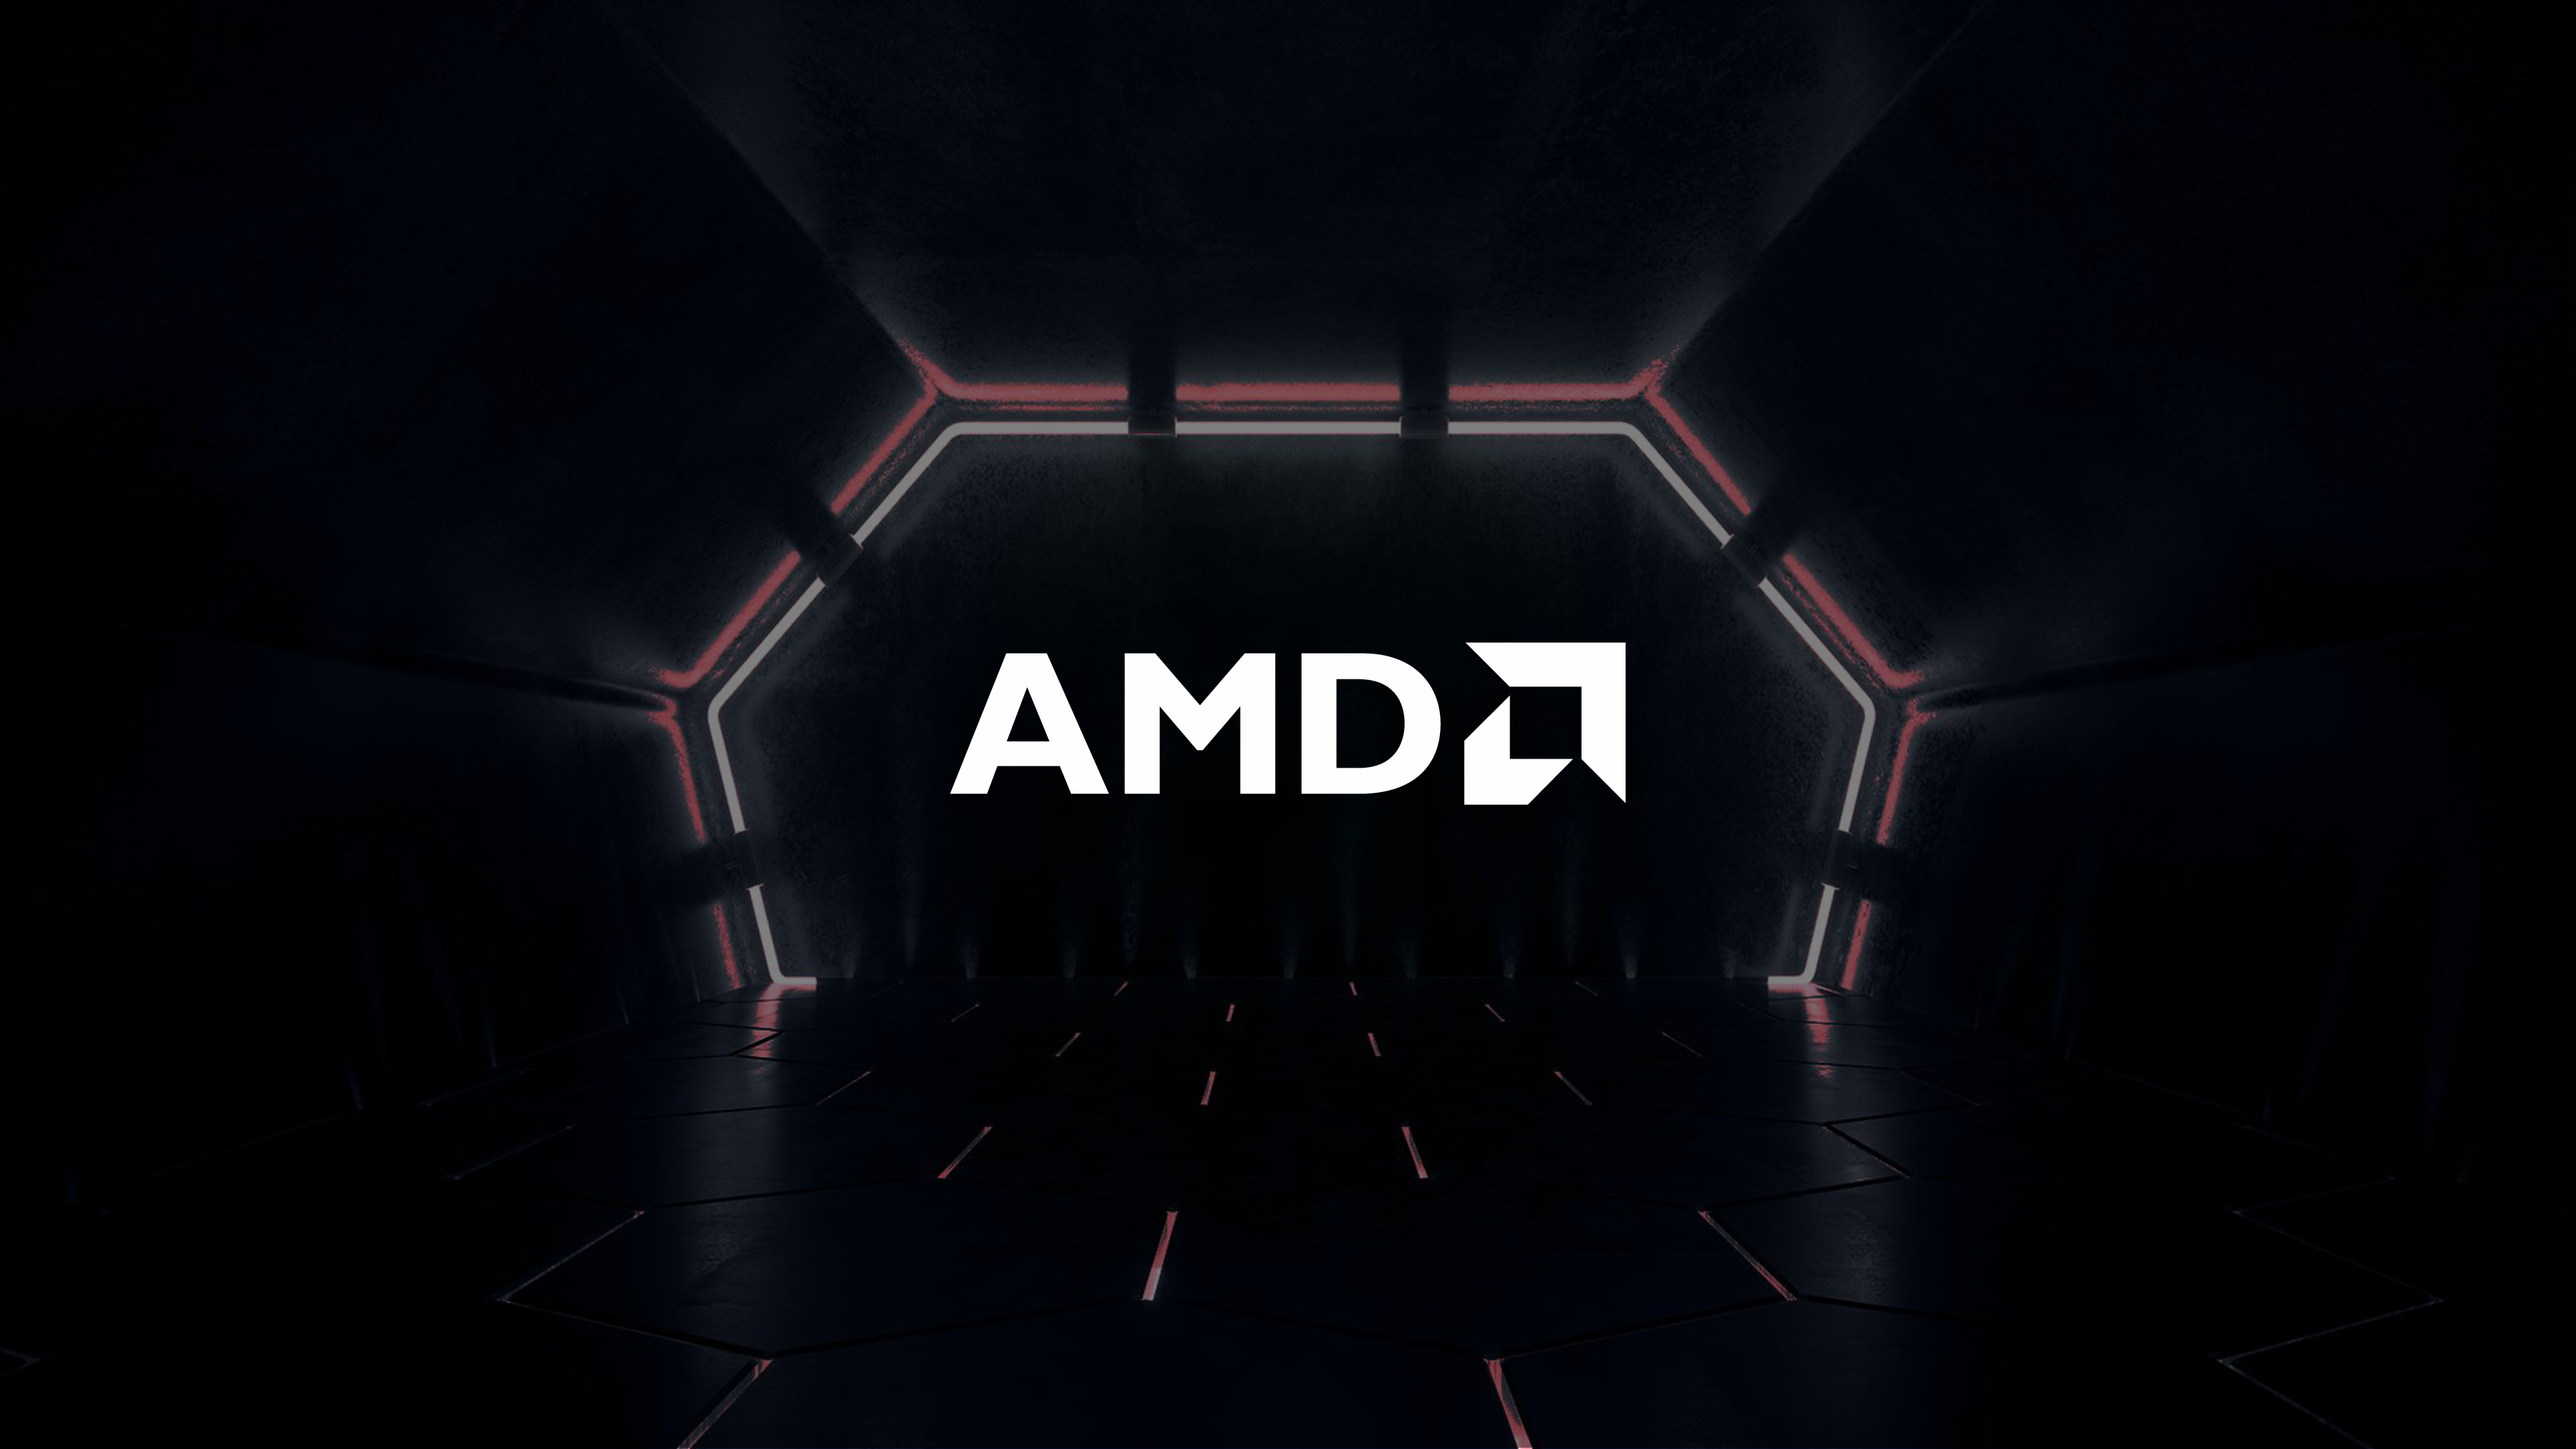
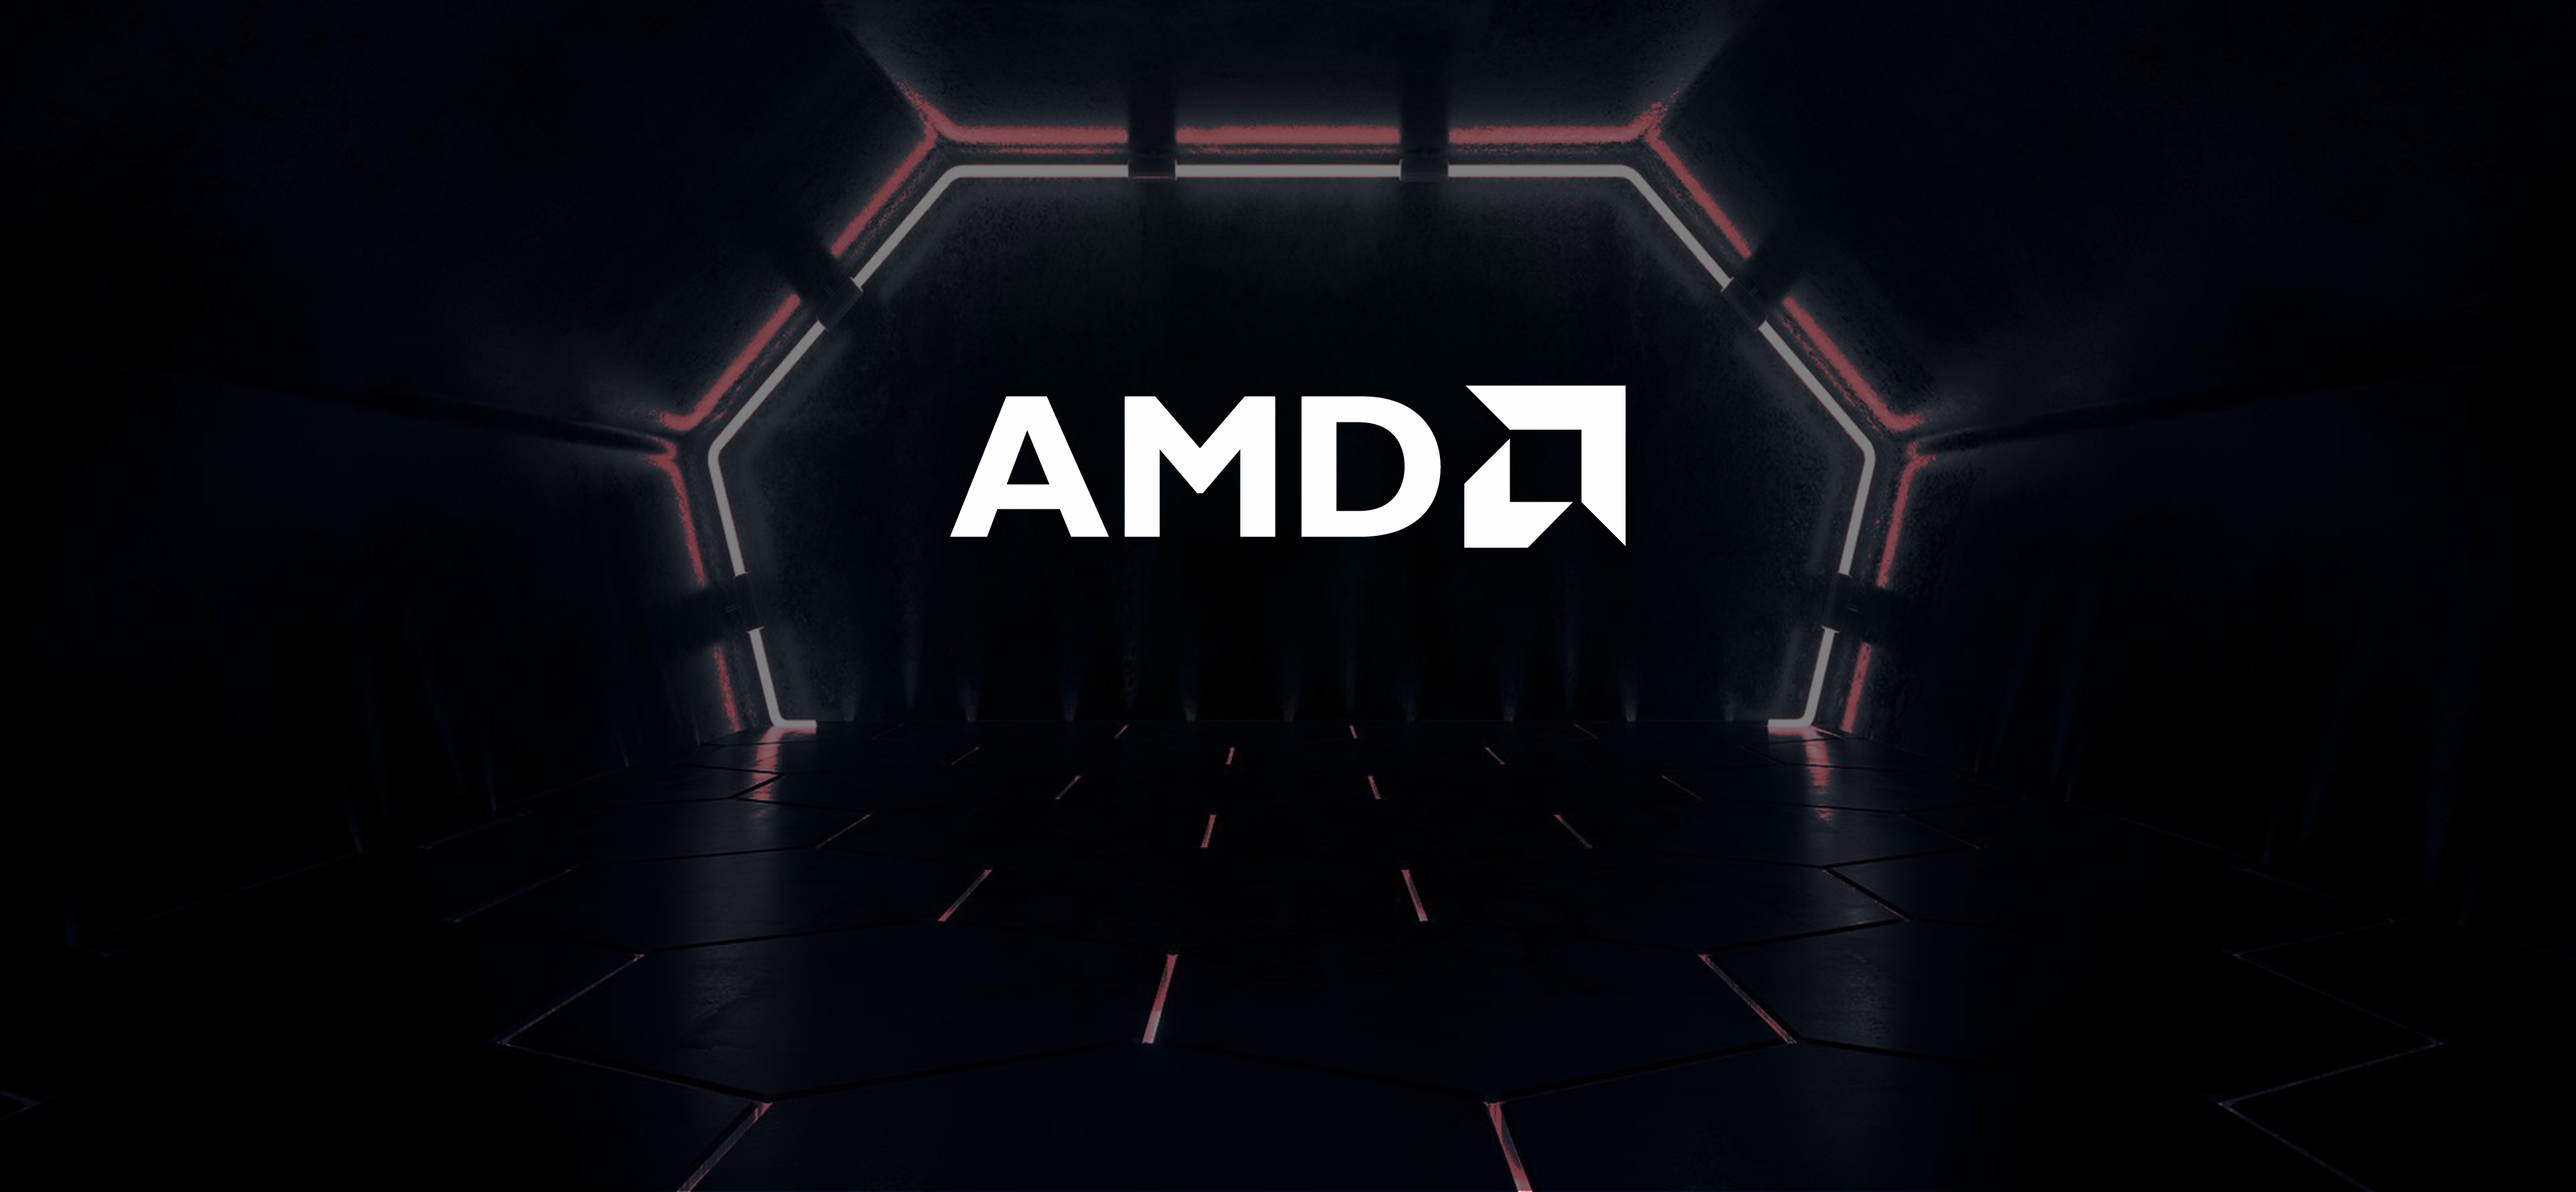
Update Hotel - AMD

diff --git a/_css/funcao.css b/_css/funcao.css
@@ -1,60 +1,196 @@
+body{
+    background-color: #353535;
+}
+
 header{
     background-color: black;
+    height: 300px;
+    position: relative;
+    margin:  0;
 }
 
 .test{
     position: absolute;
     background-color: transparent;
-    top: 170px;
-    left: 40%;
+    top: 25px;
+    left: 39.5%;
     font-family: Arial, Helvetica, sans-serif;
     font-size: 60px;
     color: #fff;
 }
 
-div.dis{
-    display: block;
+.row{
+    position: relative;
+    width: 100%;
+    display: flex;
+    justify-content: space-between;
 }
 
-.scrpiti{
+.row .scrpiti{
     background-color: #fff;
-    width: 875px;
+    width: 50%;
     height: 350px;
     font-family: 'Gill Sans', 'Gill Sans MT', Calibri, 'Trebuchet MS', sans-serif;
     position: relative;
+    display: inline-block;
     color: #000;
-    line-height: 50px;
-    padding-left: 200px;
+    line-height: 36px;
     padding-top: 25px;
-    padding-right: 0px;
     bottom: 280px;
-    left: 500px;
-    text-align: center;
+    border-top: 3px solid #000;
     border-bottom: 3px solid #000;
 }
 
-.scrpiti h2{
+.qntdQ{
+    display: inline-block;
+    position: relative;
+    left: 65px;
+    top: 25px;
+}
+
+.scrpiti .qntdQ h2{
+    display: flex;
+    font-family: Verdana, Geneva, Tahoma, sans-serif;
+    color: #000;
+    left: 50px;
+}
+
+.scrpiti .qntdQ h3{
+    font-family: Verdana, Geneva, Tahoma, sans-serif;
+    color: blue;
+    text-align: center;
+}
+
+.qntdR{
+    display: inline-block;
+    position: relative;
+    left: 115px;
+    top: 25px;
+}
+
+.scrpiti .qntdR h2{
+    display: flex;
     font-family: Verdana, Geneva, Tahoma, sans-serif;
     color: #000;
 }
 
-.scrpiti h3{
+.scrpiti .qntdR h3{
     font-family: Verdana, Geneva, Tahoma, sans-serif;
     color: blue;
+    text-align: center;
+}
+
+button
+{	
+	display: flex;
+	position: relative;
+	align-items: center;
+	justify-content: center;
+	text-align: center;
+  	background-color: #013cff;
+    border: 3px solid #353535;
+  	color: #FFFFFF;
+  	font-size: 28px;
+  	padding: 20px;
+  	width: 320px;
+  	transition: all 0.5s;
+  	cursor: pointer;
+	left: 25%;
+    top: 75px;
+	border-radius: 8px;
+	transform: scale(1);
+}
+
+button:hover
+{
+	margin-right: 20px;	
+    background-color: #353535;
+    border: 3px solid black;
+}
+
+.button span {
+  	cursor: pointer;
+  	display: inline-block;
+  	position: relative;
+  	transition: 0.5s;	
+}
+
+.button span:after {
+  content: '\21a0';
+  position: absolute;
+  opacity: 0;
+  top: 0;
+  right: -30px;
+  transition: 0.5s;
+}
+
+.button:hover span {
+  	padding-right: 50px;
+  	margin-right: 20px;
+}
+
+.button:hover span:after {
+  	opacity: 1;
+  	right: 0;
+}
+
+.row .colu{
+    border-radius: 100px;
+	display: flex;
+    position: relative;
+    width: 25%;
+    height: 100%;
+    object-fit: cover;
+    bottom: 280px;
+}
+
+.row .colu2{
+    border-radius: 100px;
+	display: flex;
+    position: relative;
+    width: 25%;
+    height: 100%;
+    object-fit: cover;
+    bottom: 280px;
 }
 
 .img-hotel{
     position: absolute;
-    height: 400px;
+    height: 496px;
     min-width: auto;
-    top: 510px;
+    border-left: 3px solid #000;
+    border-bottom: 3px solid #000;
+    border-top: 3px solid #000;
+}
+
+.img-hotel2{
+    position: absolute;
+    height: 496px;
+    left: 0px;
+    min-width: auto;
+    border-right: 3px solid #000;
+    border-bottom: 3px solid #000;
+    border-top: 3px solid #000;
 }
 
 .frase{
+    background-color: #151515;
     position: relative;
-    color: #000;
+    color: #fff;
     font-family: Arial, Helvetica, sans-serif;
+    width: 670px;
+    height: 100px;
+    left: 24.8%;
+    text-align: center;
     font-size: 30px;
-    bottom: 275px;
-  
+    bottom: 294px;
 }
+
+.frase h3{
+    position: relative;
+    padding-top: 7px;
+    padding-bottom: 6.5px;
+    border-bottom: 3px solid #000;
+    border-top: 3px solid #000;
+}
+

diff --git a/Hotel-AMD.html b/Hotel-AMD.html
@@ -1,0 +1,50 @@
+<!DOCTYPE html>
+<html>
+<head>
+    <meta charset='utf-8'>
+    <title>função</title>
+    <meta name='viewport' content='width=device-width, initial-scale=1'>
+    <link rel='stylesheet' type='text/css' media='screen' href='main.css'>
+
+    <link rel='stylesheet' href="_css/funcao.css">
+</head>
+<body>
+
+    <header>
+        <img src="_imagens/AMD-tunel-processor.png" style="width: 100%; height: 600px;">
+            <div class="test">
+                <h2>HOTEL</h2>
+            </div>
+            <div class="row">
+                <div class="colu2">
+                    <img src="_imagens/Hotel-AMD/95112669.jpg" class="img-hotel2">
+                </div>
+                <div class="scrpiti">
+                    <div class="qntdQ">
+                        <h2>Quartos no hotel</h2>
+                        <h3 id="quartos"></h3>
+                    </div>
+                    <div class="qntdR">
+                        <h2>Reservas do hotel</h2>
+                        <h3 id="reserva"></h3>
+                    </div>
+
+                    <button type="submit" class="button"><span>Reserve o seu!</span></button>
+                
+                    <script src='js/hotel.js'></script>
+                </div>
+                <div class="colu">
+                    <img src="_imagens/Hotel-AMD/95307172.jpg" class="img-hotel">
+                </div>
+            </div>
+            <div class="frase">
+                <h3>Seu melhor processamento de hospendagem é aqui na HOTEL AMD!</h3>
+            </div> 
+    </header>
+
+    <section>
+
+    </section>
+
+</body>
+</html>

diff --git a/js/hotel.js b/js/hotel.js
@@ -11,3 +11,4 @@ qtndQuartos.textContent += hotel.quartos;
 
 var qtndRservados = document.getElementById('reserva');
 qtndRservados.textContent += hotel.reservados;
+
